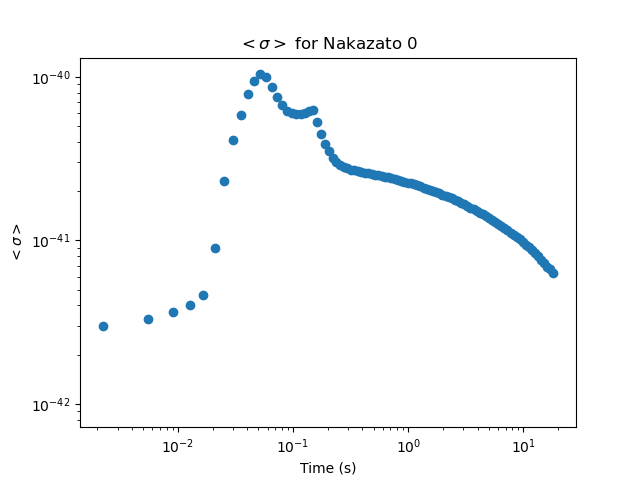
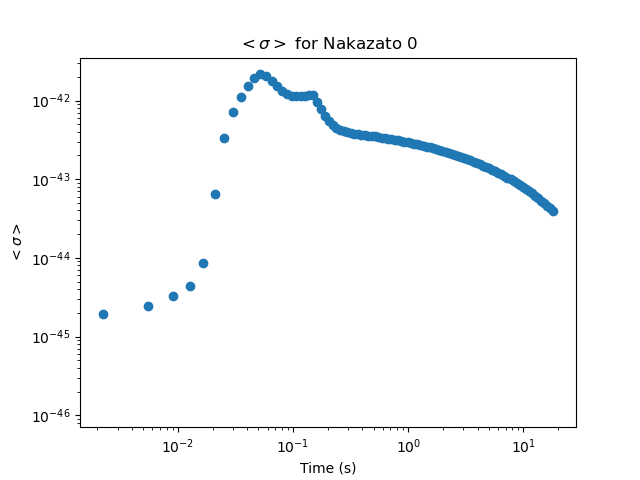
Sigma average for nc attempt

diff --git a/sigma_average.py b/sigma_average.py
@@ -94,11 +94,26 @@ def estimate_cxn(config: t.MetaAnalysisConfig, flux_chan: int, cxn_truth_fname: 
 
     # region reconstruct cxn from Ndet to ensure correct smearing matrix was used
     # pick 0th bin
-    flux_interpolated = np.interp(l_data[0]['Energy'], labeled[0][0], labeled[0][flux_chan])
+    nux_fluence = np.add(
+        labeled[0][2],
+        np.add(
+            np.add(
+                labeled[0][3],
+                labeled[0][5]
+            ),
+            labeled[0][6]
+        )
+    )
+    flux_interpolated = np.interp(
+        l_data[0]['Energy'],
+        labeled[0][0],
+        nux_fluence if det_name == 'scint20kt' else labeled[0][flux_chan]
+    )
+
     cxn_reconstructed = np.divide(
-        l_data[0]['nue_Ar40'],
+        l_data[0]['nc'],
         flux_interpolated
-    ) / (config.proxyconfig.Nt_ar40kt()[1] * 2.5)
+    ) / (config.proxyconfig.Nt_scint20kt()[0] * 2.5)
     recon_cxn_fig, recon_cxn_ax = plt.subplots(1,1)
     recon_cxn_ax.scatter(l_data[0]['Energy'], cxn_reconstructed)
     recon_cxn_ax.set_xscale('log')
@@ -166,4 +181,4 @@ if __name__ == '__main__':
         'AdiabaticMSW_IMO',
         proxy_config=data_handlers.ConfigBestChannel()
     )
-    estimate_cxn(config, 1, 'xs_nue_Ar40', 'nu_e', 'ar40kt')
+    estimate_cxn(config, 1, 'xs_nc_numu_C12', 'nu_mu', 'scint20kt')
